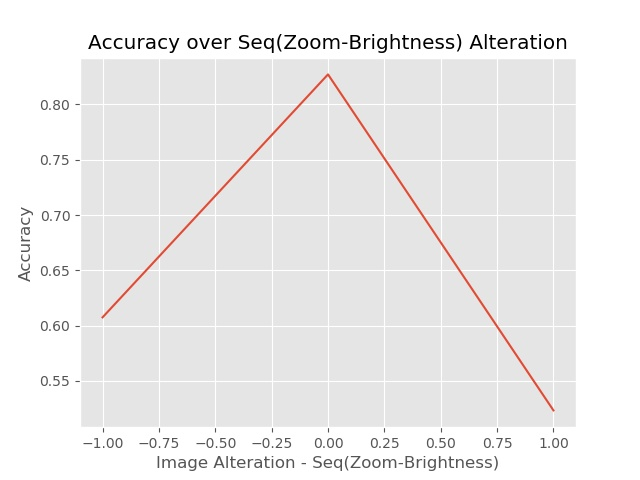
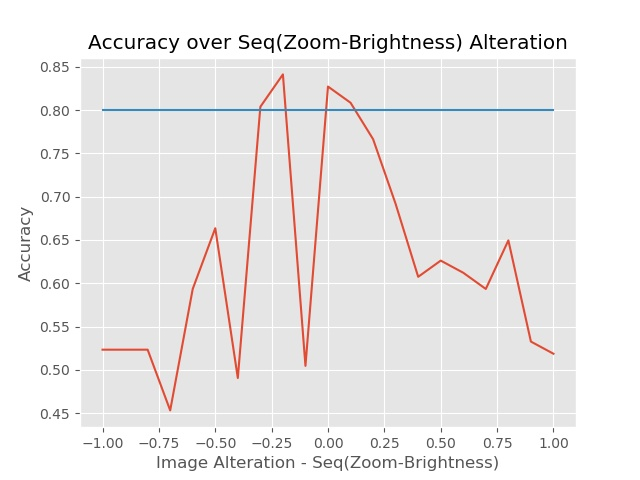
Update

diff --git a/code/roby_Use/breast-cancer/breast_cancer_local.py b/code/roby_Use/breast-cancer/breast_cancer_local.py
@@ -23,7 +23,8 @@ import cv2   # type: ignore
 from keras.preprocessing.image import img_to_array   # type: ignore
 import numpy as np   # type: ignore
 from roby.Alterations import Compression, VerticalTranslation,\
-    HorizontalTranslation, Blur, Zoom, Brightness, Alteration,AlterationSequence
+    HorizontalTranslation, Blur, Zoom, Brightness, Alteration,\
+    AlterationSequence
 
 
 def reader(file_name):
@@ -70,65 +71,66 @@ if __name__ == '__main__':
 
     # get the standard behavior of the net
     accuracy = classification(environment)
-# 
-#     # create the alteration_type as a GaussianNoise with variance 200
-#     alteration_type: Alteration = GaussianNoise(0, 1, 200)
-# 
-#     # perform robustness analysis, with 20 points
-#     results = robustness_test(environment, alteration_type, 2,
-#                               accuracy_treshold)
-#     display_robustness_results(results)
-# 
-#     # create the alteration_type as a Compression
-#     alteration_type = Compression(0, 1)
-# 
-#     # perform robustness analysis, with 20 points
-#     results = robustness_test(environment, alteration_type, 2,
-#                               accuracy_treshold)
-#     display_robustness_results(results)
-# 
-#     # create the alteration_type as a Vertical Translation
-#     alteration_type = VerticalTranslation(-1, 1)
-# 
-#     # perform robustness analysis, with 20 points
-#     results = robustness_test(environment, alteration_type, 2,
-#                               accuracy_treshold)
-#     display_robustness_results(results)
-# 
-#     # create the alteration_type as a Horizontal Translation
-#     alteration_type = HorizontalTranslation(-1, 1)
-# 
-#     # perform robustness analysis, with 20 points
-#     results = robustness_test(environment, alteration_type, 2,
-#                               accuracy_treshold)
-#     display_robustness_results(results)
-# 
-#     # create the alteration_type as a Blur Variation, with radius = 2
-#     alteration_type = Blur(0, 1, 2)
-# 
-#     # perform robustness analysis, with 20 points
-#     results = robustness_test(environment, alteration_type, 2,
-#                               accuracy_treshold)
-#     display_robustness_results(results)
-# 
-#     # create the alteration_type as a Brightness Variation
-#     alteration_type = Brightness(-0.5, 0.5)
-# 
-#     # perform robustness analysis, with 20 points
-#     results = robustness_test(environment, alteration_type, 2,
-#                               accuracy_treshold)
-#     display_robustness_results(results)
-# 
-#     # create the alteration_type as a Zoom
-#     alteration_type = Zoom(0, 1)
-# 
-#     # perform robustness analysis, with 20 points
-#     results = robustness_test(environment, alteration_type, 2,
-#                               accuracy_treshold)
-#     display_robustness_results(results)
 
-    altseq = AlterationSequence([Zoom(0, 1),Brightness(-0.5, 0.5)])
-    
-    results = robustness_test(environment, altseq, 2, accuracy_treshold)
-    
+    # create the alteration_type as a GaussianNoise with variance 200
+    alteration_type: Alteration = GaussianNoise(0, 1, 200)
+
+    # perform robustness analysis, with 20 points
+    results = robustness_test(environment, alteration_type, 20,
+                              accuracy_treshold)
+    display_robustness_results(results)
+
+    # create the alteration_type as a Compression
+    alteration_type = Compression(0, 1)
+
+    # perform robustness analysis, with 20 points
+    results = robustness_test(environment, alteration_type, 20,
+                              accuracy_treshold)
+    display_robustness_results(results)
+
+    # create the alteration_type as a Vertical Translation
+    alteration_type = VerticalTranslation(-1, 1)
+
+    # perform robustness analysis, with 20 points
+    results = robustness_test(environment, alteration_type, 20,
+                              accuracy_treshold)
+    display_robustness_results(results)
+
+    # create the alteration_type as a Horizontal Translation
+    alteration_type = HorizontalTranslation(-1, 1)
+
+    # perform robustness analysis, with 20 points
+    results = robustness_test(environment, alteration_type, 20,
+                              accuracy_treshold)
+    display_robustness_results(results)
+
+    # create the alteration_type as a Blur Variation, with radius = 2
+    alteration_type = Blur(0, 1, 2)
+
+    # perform robustness analysis, with 20 points
+    results = robustness_test(environment, alteration_type, 20,
+                              accuracy_treshold)
+    display_robustness_results(results)
+
+    # create the alteration_type as a Brightness Variation
+    alteration_type = Brightness(-0.5, 0.5)
+
+    # perform robustness analysis, with 20 points
+    results = robustness_test(environment, alteration_type, 20,
+                              accuracy_treshold)
+    display_robustness_results(results)
+
+    # create the alteration_type as a Zoom
+    alteration_type = Zoom(0, 1)
+
+    # perform robustness analysis, with 20 points
+    results = robustness_test(environment, alteration_type, 20,
+                              accuracy_treshold)
+    display_robustness_results(results)
+
+    # create the alteration_type as a Sequence of Zoom and Brightness
+    altseq = AlterationSequence([Zoom(0, 1), Brightness(-0.5, 0.5)])
+
+    # perform robustness analysis, with 20 points
+    results = robustness_test(environment, altseq, 20, accuracy_treshold)
     display_robustness_results(results)

diff --git a/code/roby/roby/Alterations.py b/code/roby/roby/Alterations.py
@@ -404,40 +404,9 @@ class Blur(Alteration):
             data = data.filter(ImageFilter.GaussianBlur(radius=self.radius *
                                                         alteration_level))
             data = np.array(data)
-            data = cv2.cvtColor(data, cv2.COLOR_RGB2BGR)
 
         assert(isinstance(data, np.ndarray))
         return data
-
-    def apply_alteration_fromfile(self,
-                         file_name: str,
-                         alteration_level: float) -> np.ndarray:
-        """
-        Method that applies a blur alteration with a given value to the data,
-        whose fileName is given as a parameter
-
-        Parameters
-        ----------
-            file_name : str
-                the path of the data on which the blur alteration should be
-                applied
-            alteration_level : float
-                the level of the blur alteration that should be applied.
-                It must be contained in the range given by
-                the get_range method
-
-        Returns
-        -------
-            data : np.ndarray
-                the altered data on which the blur alteration has been applied
-        """
-        if alteration_level != 0:
-            data = Image.open(file_name)
-            data = np.asarray(data)
-        else:
-            data = cv2.imread(file_name)
-        assert(isinstance(data, np.ndarray))
-        return self.apply_alteration(data, alteration_level)
 
 
 class Brightness(Alteration):
@@ -515,41 +484,9 @@ class Brightness(Alteration):
             enhancer = ImageEnhance.Brightness(data)
             data = enhancer.enhance(1 + (alteration_level * 0.5))
             data = np.array(data)
-            data = cv2.cvtColor(data, cv2.COLOR_RGB2BGR)
 
         assert(isinstance(data, np.ndarray))
         return data
-
-    def apply_alteration_fromfile(self,
-                         file_name: str,
-                         alteration_level: float) -> np.ndarray:
-        """
-        Method that applies a Brightness Variation with a given value to the
-        input data, whose fileName is given as a parameter
-
-        Parameters
-        ----------
-            file_name : str
-                the path of the data on which the Brightness Variation should
-                be applied
-            alteration_level : float
-                the level of the Brightness Variation that should be applied.
-                It must be contained in the range given by the get_range method
-
-        Returns
-        -------
-            data : np.ndarray
-                the altered data on which the Brightness Variation has been
-                applied
-        """
-        if not -0.0001 <= float(alteration_level) <= 0.0001:
-            data = Image.open(file_name)
-            data = np.asarray(data)
-        else:
-            data = cv2.imread(file_name)
-            return data
-        assert(isinstance(data, np.ndarray))
-        return self.apply_alteration(data, alteration_level)
 
 
 class Zoom(Alteration):
@@ -674,7 +611,9 @@ class AlterationSequence(Alteration):
         """
         for a in self.alterations:
             # map the interval
-            alteration = ((alteration_level - self.value_from)/(self.value_to - self.value_from)) * (a.value_to - a.value_from)
-            alteration = alteration + a.value_from 
+            alteration = ((alteration_level - self.value_from) / (
+                self.value_to - self.value_from)) * (
+                    a.value_to - a.value_from)
+            alteration = alteration + a.value_from
             data = a.apply_alteration(data, alteration)
         return data
